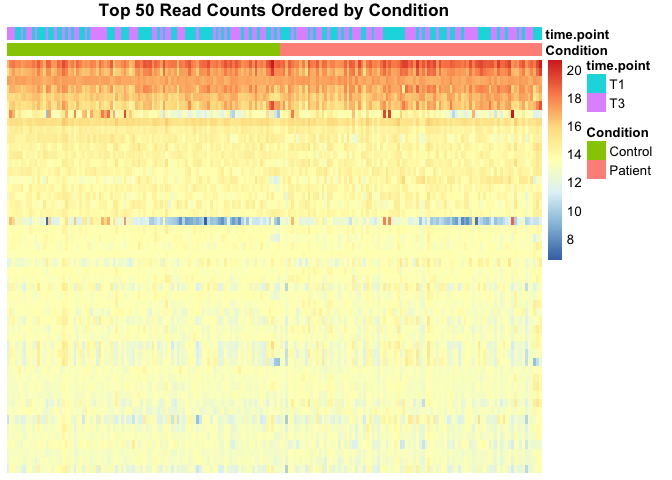
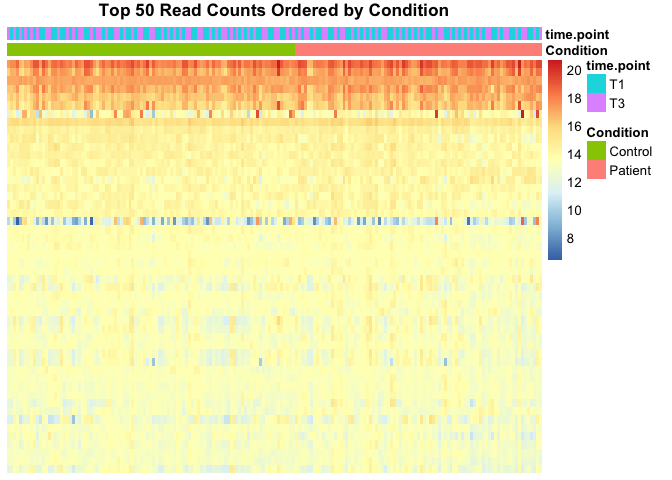
new import file

diff --git a/diff_express_analysis/Data_QC_plots.md b/diff_express_analysis/Data_QC_plots.md
@@ -1,6 +1,6 @@
 Data QC plots
 ================
-2024-05-01
+2025-10-20
 
 Here we will generate a number of plots to investigate the count data.
 However, while we use raw counts and discrete distributions to explore
@@ -25,8 +25,19 @@ Import DESeq2 object:
 
 ``` r
 # ├── import using dds 
-dds <- readRDS('~/Documents/dev/dev2/remake/dds_countFiltered.rds')
+dds <- readRDS('dds_covarIncluded.rds')
+dds
 ```
+
+    ## class: DESeqDataSet 
+    ## dim: 63677 180 
+    ## metadata(1): version
+    ## assays(4): counts mu H cooks
+    ## rownames(63677): ENSG00000223972 ENSG00000227232 ... ENSG00000210195
+    ##   ENSG00000210196
+    ## rowData names(50): baseMean baseVar ... deviance maxCooks
+    ## colnames(180): PSR120 PSR089 ... PSR072 PSR057
+    ## colData names(11): SubjectID tobacco ... Plate sizeFactor
 
 ### 2. Extract Transformed Data
 
@@ -55,10 +66,10 @@ vsd <- vst(dds, blind=FALSE)
 assay(vsd)[1:3,1:3]
 ```
 
-    ##                   PSR001   PSR002   PSR003
-    ## ENSG00000223972 5.910472 5.901729 7.519761
-    ## ENSG00000227232 8.942500 8.362404 8.691538
-    ## ENSG00000238009 7.034055 6.992521 7.147954
+    ##                   PSR120   PSR089   PSR114
+    ## ENSG00000223972 6.850766 6.696634 6.205485
+    ## ENSG00000227232 8.936643 8.703745 8.870793
+    ## ENSG00000243485 3.667966 3.549275 3.167936
 
 **Variance stabilizing transformation** Above, we used a parametric fit
 for the dispersion. In this case, the closed-form expression for the
@@ -79,7 +90,7 @@ First we will generate normal transformed counts:
 ntd <- normTransform(dds)
 ```
 
-Explore the transformations to determine how they change dependant on
+Explore the transformations to determine how they change dependent on
 the normalisation
 
 ``` r
@@ -87,47 +98,35 @@ table(counts(dds) == assay(dds), useNA = 'ifany') # conforming that these are th
 ```
 
     ## 
-    ##    TRUE 
-    ## 4668672
-
-``` r
-assay(ntd)[1:6,1:6]
-```
-
-    ##                    PSR001    PSR002    PSR003    PSR004    PSR005    PSR006
-    ## ENSG00000223972  5.292510  5.279631  7.329937  6.599987  4.236220  5.342526
-    ## ENSG00000227232  8.873012  8.257952  8.608674  8.473254  8.199140  8.885264
-    ## ENSG00000238009  6.764975  6.715232  6.900112  7.076098  6.373016  7.762491
-    ## ENSG00000239945  4.000383  5.092282  4.111462  5.095372  3.523299  5.342526
-    ## ENSG00000233750  8.132498  7.840768  8.703944  8.623889  8.006460  9.556370
-    ## ENSG00000237683 11.061411 10.837118 11.540953 11.394200 11.019164 12.197914
+    ##     TRUE 
+    ## 11461860
 
 ``` r
 assay(ntd)[1:6,1:6]; counts(dds, normalized=T)[1:6,1:6]
 ```
 
-    ##                    PSR001    PSR002    PSR003    PSR004    PSR005    PSR006
-    ## ENSG00000223972  5.292510  5.279631  7.329937  6.599987  4.236220  5.342526
-    ## ENSG00000227232  8.873012  8.257952  8.608674  8.473254  8.199140  8.885264
-    ## ENSG00000238009  6.764975  6.715232  6.900112  7.076098  6.373016  7.762491
-    ## ENSG00000239945  4.000383  5.092282  4.111462  5.095372  3.523299  5.342526
-    ## ENSG00000233750  8.132498  7.840768  8.703944  8.623889  8.006460  9.556370
-    ## ENSG00000237683 11.061411 10.837118 11.540953 11.394200 11.019164 12.197914
+    ##                   PSR120    PSR089   PSR114    PSR149   PSR128   PSR085
+    ## ENSG00000223972 6.631483 6.4516979 5.855893 5.7327512 5.806163 5.954638
+    ## ENSG00000227232 8.886280 8.6444790 8.818059 8.8783571 8.602315 8.609485
+    ## ENSG00000243485 1.063856 0.7062895 0.000000 1.7382567 1.313383 0.833736
+    ## ENSG00000237613 0.000000 1.5334673 1.998407 0.8308821 0.000000 0.833736
+    ## ENSG00000268020 0.000000 0.0000000 0.000000 0.0000000 0.000000 0.000000
+    ## ENSG00000240361 0.000000 0.0000000 0.000000 0.0000000 0.000000 0.000000
 
-    ##                     PSR001     PSR002     PSR003     PSR004     PSR005
-    ## ENSG00000223972   38.19263   37.84431  159.89064   96.00500   17.84644
-    ## ENSG00000227232  467.85969  305.11976  389.36332  354.38882  292.89152
-    ## ENSG00000238009  107.75777  104.07185  118.43751  133.93290   81.88365
-    ## ENSG00000239945   15.00425   33.11377   16.28516   33.18691   10.49790
-    ## ENSG00000233750  279.62460  228.24850  416.01176  393.50197  256.14886
-    ## ENSG00000237683 2136.05910 1828.35326 2978.70344 2690.51043 2074.38585
-    ##                    PSR006
-    ## ENSG00000223972   39.5752
-    ## ENSG00000227232  471.8581
-    ## ENSG00000238009  216.1415
-    ## ENSG00000239945   39.5752
-    ## ENSG00000233750  751.9288
-    ## ENSG00000237683 4697.2718
+    ##                     PSR120      PSR089     PSR114      PSR149     PSR128
+    ## ENSG00000223972  98.145989  86.5295295  56.916106  52.1777631  54.953735
+    ## ENSG00000227232 472.191260 399.1727201 450.336210 469.5998675 387.646619
+    ## ENSG00000243485   1.090511   0.6316024   0.000000   2.3363177   1.485236
+    ## ENSG00000237613   0.000000   1.8948072   2.995585   0.7787726   0.000000
+    ## ENSG00000268020   0.000000   0.0000000   0.000000   0.0000000   0.000000
+    ## ENSG00000240361   0.000000   0.0000000   0.000000   0.0000000   0.000000
+    ##                      PSR085
+    ## ENSG00000223972  61.0189953
+    ## ENSG00000227232 389.5828163
+    ## ENSG00000243485   0.7822948
+    ## ENSG00000237613   0.7822948
+    ## ENSG00000268020   0.0000000
+    ## ENSG00000240361   0.0000000
 
 Now, we’ll compare normal to variance transformed data:
 
@@ -136,29 +135,7 @@ par(mfrow=c(1,3), mar=c(4,4,.1,.1))
 meanSdPlot(counts(dds))
 meanSdPlot(assay(ntd))
 meanSdPlot(assay(vsd))
-
-counts(dds)[1:6,1:3]
 ```
-
-    ##                 PSR001 PSR002 PSR003
-    ## ENSG00000223972     28     32    108
-    ## ENSG00000227232    343    258    263
-    ## ENSG00000238009     79     88     80
-    ## ENSG00000239945     11     28     11
-    ## ENSG00000233750    205    193    281
-    ## ENSG00000237683   1566   1546   2012
-
-``` r
-assay(dds)[1:6,1:3]
-```
-
-    ##                 PSR001 PSR002 PSR003
-    ## ENSG00000223972     28     32    108
-    ## ENSG00000227232    343    258    263
-    ## ENSG00000238009     79     88     80
-    ## ENSG00000239945     11     28     11
-    ## ENSG00000233750    205    193    281
-    ## ENSG00000237683   1566   1546   2012
 
 <img src="Data_QC_plots_files/figure-gfm/sd-transform-1.png" width="50%" /><img src="Data_QC_plots_files/figure-gfm/sd-transform-2.png" width="50%" /><img src="Data_QC_plots_files/figure-gfm/sd-transform-3.png" width="50%" />
 
@@ -221,9 +198,6 @@ pheatmap(assay(vsd)[select,row.names(df_ordered_tp_cond)], cluster_rows=F, show_
 ```
 
 <img src="Data_QC_plots_files/figure-gfm/heatmap-2-1.png" width="50%" /><img src="Data_QC_plots_files/figure-gfm/heatmap-2-2.png" width="50%" />
-Comparison to allowing clustering. Does clustering show patterns of
-distinction that contradicts the condition and time.point labelling
-above? If so, it may indicate that the samples are incorrectly labelled.
 
 **Heatmap of sample-to-sample distances**
 
@@ -247,7 +221,7 @@ hmap_sampledist <-
 ![](Data_QC_plots_files/figure-gfm/unnamed-chunk-9-1.png)<!-- -->
 
 ``` r
-ggsave('heatmap_sampledist.png', hmap_sampledist, height=25, width=11, dpi=1200)
+#ggsave('heatmap_sampledist.png', hmap_sampledist, height=25, width=11, dpi=1200)
 ```
 
 Next, generate a PCA plot to identify groups within the samples
@@ -265,26 +239,10 @@ pc1
 ![](Data_QC_plots_files/figure-gfm/unnamed-chunk-10-1.png)<!-- -->
 
 ``` r
-ggsave('pca_sex.png', dpi=1200)
+#ggsave('pca_sex.png', dpi=1200)
 ```
-
-    ## Saving 7 x 5 in image
 
 Correct for sex effects:
-
-``` r
-vsd
-```
-
-    ## class: DESeqTransform 
-    ## dim: 24316 192 
-    ## metadata(1): version
-    ## assays(1): ''
-    ## rownames(24316): ENSG00000223972 ENSG00000227232 ... ENSG00000210195
-    ##   ENSG00000210196
-    ## rowData names(35): baseMean baseVar ... replace dispFit
-    ## colnames(192): PSR001 PSR002 ... PSR198 PSR199
-    ## colData names(9): sample time.point ... sizeFactor replaceable
 
 ``` r
 # Create a sex corrected set
